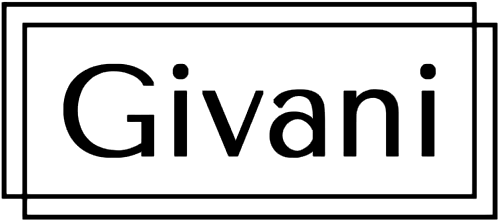
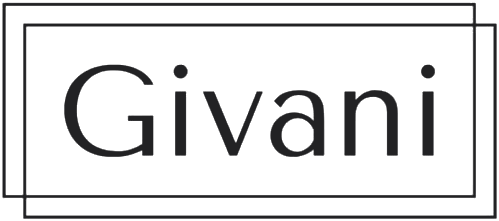
Üst menü logosu: menü kutularıyla aynı boy, ince çizgili, sayfaya uyumlu
Claude-Session: https://claude.ai/code/session_01DF51w2SYVtDZffRpKMedH9

diff --git a/css/style.css b/css/style.css
@@ -1323,3 +1323,9 @@ html.js .rv--scale { transform: translateY(28px) scale(.985); }
 /* Alttaki büyük Givani: logodaki yazı stilinin vektör hali, boyut aynı */
 .footer__mark { line-height: 0; padding-top: .16em; padding-bottom: .1em; }
 .footer__word { display: inline-block; width: 2.8em; height: auto; color: var(--ink); }
+/* Üst menü logosu: menü kutularıyla aynı yükseklikte, daha hafif çizgili, sayfaya oturan */
+.logo { padding: 0 !important; }
+.logo__img { height: 44px; opacity: .92; transition: opacity .3s var(--ease); }
+.logo:hover .logo__img { opacity: 1; }
+@media (max-width: 760px) { .logo__img { height: 36px; } }
+@media (max-width: 380px) { .logo__img { height: 31px; } }
